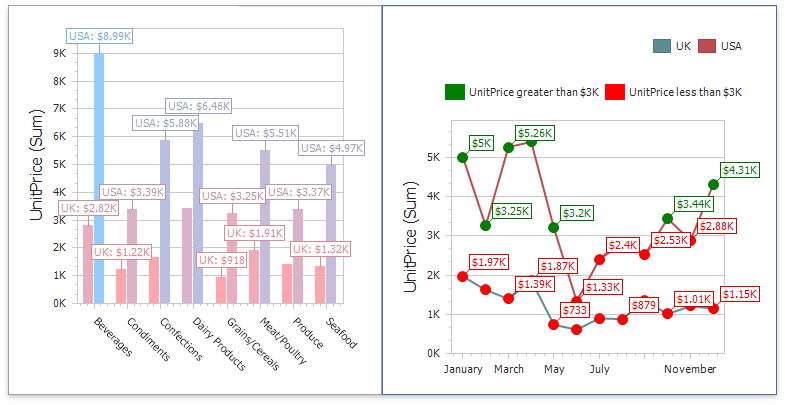
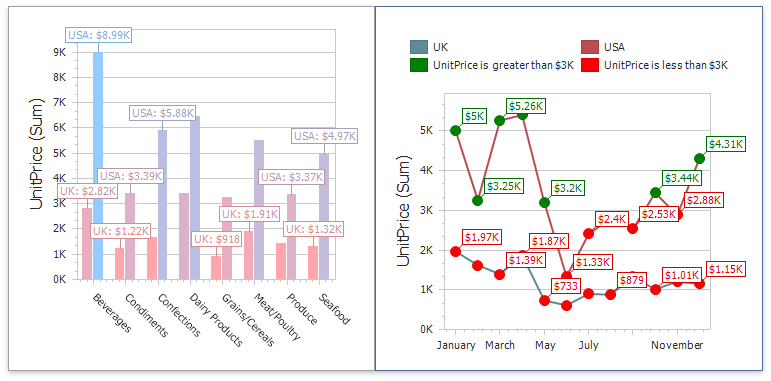
change readme

diff --git a/CS/ChartFormatRulesSample/Form1.cs b/CS/ChartFormatRulesSample/Form1.cs
@@ -36,7 +36,7 @@ namespace ChartFormatRulesSample {
             valueCondition1.StyleSettings = new ColorStyleSettings(Color.Green);
             valueRule1.Condition = valueCondition1;
             valueRule1.ShowInLegend = true;
-            valueRule1.Description = "UnitPrice greater than $3K";
+            valueRule1.DisplayName = "UnitPrice is greater than $3K";
             chart.FormatRules.Add(valueRule1);
 
             ChartItemFormatRule valueRule2 = new ChartItemFormatRule(series.Value, series);
@@ -44,7 +44,7 @@ namespace ChartFormatRulesSample {
             valueCondition2.StyleSettings = new ColorStyleSettings(Color.Red);
             valueRule2.Condition = valueCondition2;
             valueRule2.ShowInLegend = true;
-            valueRule2.Description = "UnitPrice less than $3K";
+            valueRule2.DisplayName = "UnitPrice is less than $3K";
             chart.FormatRules.Add(valueRule2);
         }
     }
